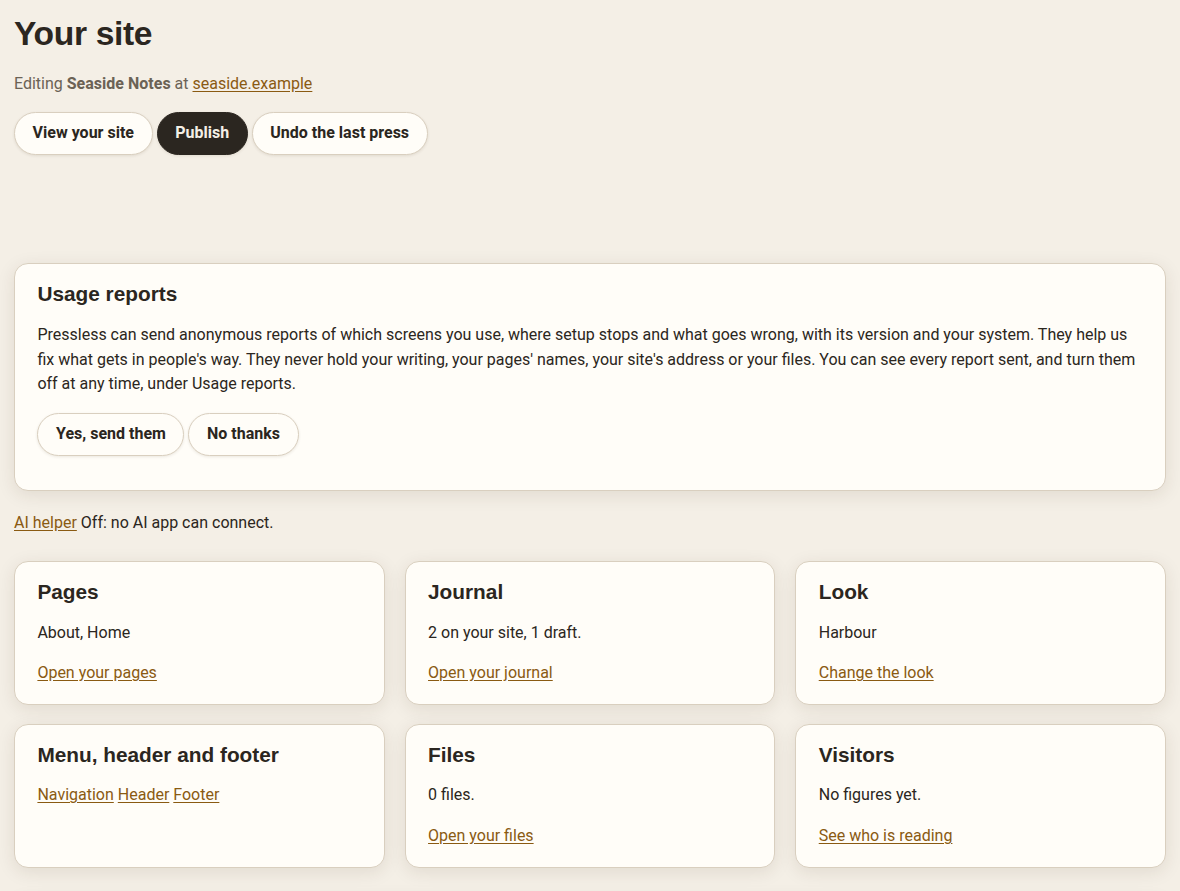
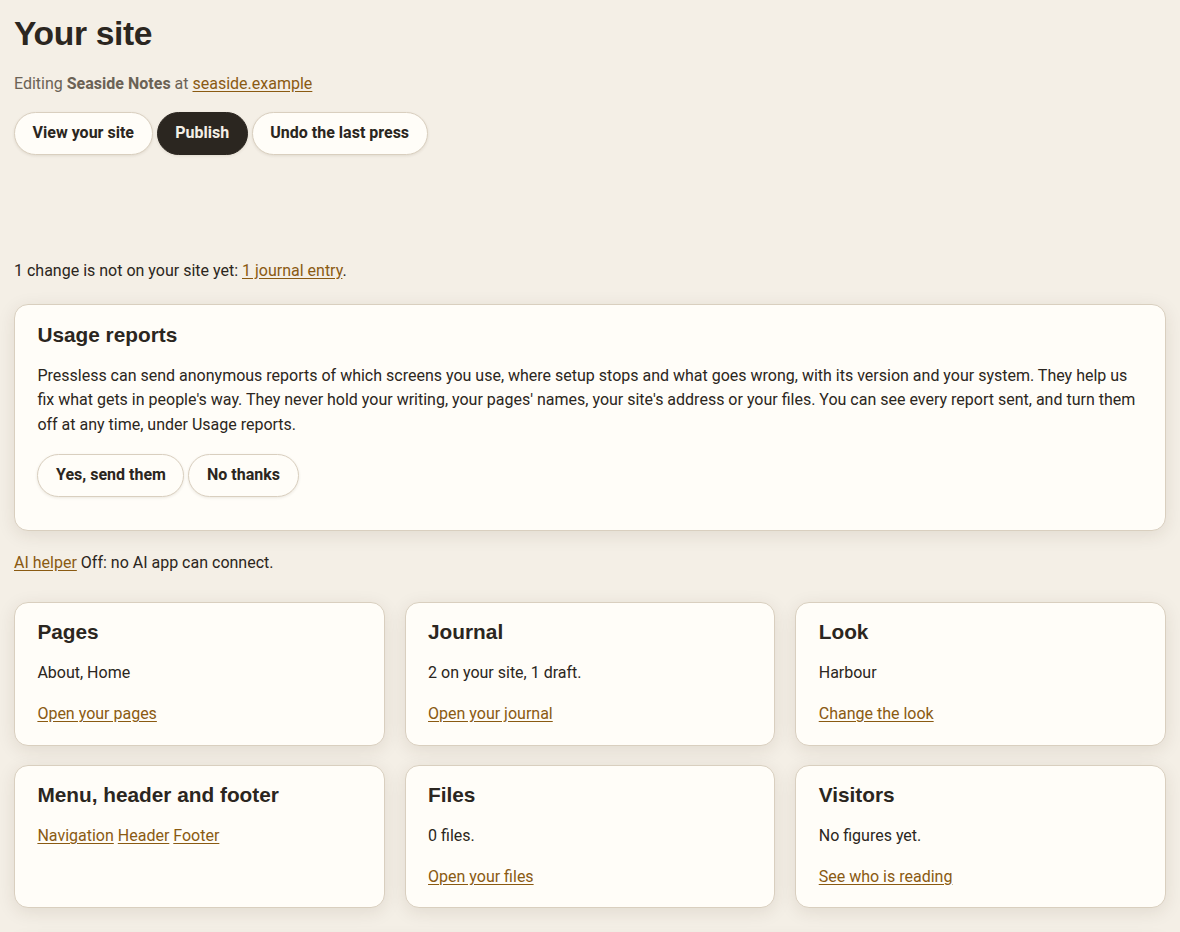
PRESS-0364: Your site counts the changes not on the site yet
A line under the Publish row says how many pages, parts of every page
and journal entries have changes not on the site, each kind linking to
Pages or Journal. It is counted from this computer alone, so the screen
never waits on the network, and it stands apart from Publish, which
sends none of those changes. With the journal off, entries are not
counted, since none can reach the site.

The manual said Publish on Your site sends everything waiting. It
does not, so the Publishing section now says what it does. The Your
site picture is retaken, and PRESS-0353's decision 5 says what is built.

write-code: Phase 0 contract PRESS-0353 (decision 5, section 4.3);
rows fired: signature (_drafts_and_notes, one caller), doc-claim
(spec, manual), names-string (word keys; test_words caught a built
key). Red first for the count and the doubled notice; a mutation
dropping the entries' changes turned the count test red. Gate:
scripts/local-ci.sh green, Linux 2022 passed and Windows box 1902
passed. Pair list absent.

Changed region(s): [[0.0, 0.5455, 1.0, 0.9697], [0.0, 0.2727, 0.9763, 0.5152], [0.0, 0.0303, 0.3661, 0.1818]]

diff --git a/src/pressless/overview.py b/src/pressless/overview.py
@@ -38,12 +38,14 @@ def _show(face: Face, folder: Path) -> str:
         tiles = "".join(tile(folder) for tile in (_pages, _journal, _look))
         tiles += _parts() + _files(folder) + _visitors(face, folder)
         below = checklist.render(folder)
+    with face.capture():  # its reads repeat the tiles', and Pages shows the rest
+        waiting = _waiting(folder)
     # PRESS-0235 § 4.5: the press row is the undo line, and Publish shares it.
     said, running, ended = pressing.shown("")
     buttons = (f'{face.view_site()} <button type="button" data-editor="publish" '
                f'data-publish-site>{say("overview.publish")}</button> ')
     return (render_notices(notices) + f"<h1>{say('face.your_site')}</h1>" + site
-            + editor._undo_row(said, running=running, before=buttons)
+            + editor._undo_row(said, running=running, before=buttons) + waiting
             + "".join(face.pieces("site-notices"))
             # PRESS-0236: a press's failure opens over the screen.
             + message_box("failure", ended or "", forgets=True)
@@ -51,6 +53,39 @@ def _show(face: Face, folder: Path) -> str:
             + f'<div class="tiles">{tiles}{"".join(face.pieces("site-tiles"))}</div>'
             + below + "".join(face.pieces("site-below")) + "</div>"
             + f"<script>{editor._UNDO_SCRIPT}{_PUBLISH_SCRIPT}</script>")
+
+
+def _waiting(folder: Path) -> str:
+    """PRESS-0364: how many changes are not on the site yet, by kind, each
+    kind linking to the screen that publishes it. Counted from the Store
+    alone, so a change only GitHub holds is missed. Its own line, apart from
+    Publish, which sends none of them. Nothing waiting, or nothing readable,
+    draws nothing."""
+    try:
+        counts = [
+            (len(store.list_html(folder, store.PAGES_FOLDER, waiting=True)),
+             ("overview.waiting.pages.one", "overview.waiting.pages.many"), editor.PAGES_ADDRESS),
+            (len(store.list_html(folder, store.FURNITURE_FOLDER, waiting=True)),
+             ("overview.waiting.parts.one", "overview.waiting.parts.many"), editor.PAGES_ADDRESS),
+        ]
+        if store.journal_on(folder):  # off, no entry can reach the site
+            entries, _ = editor.read_entries(folder)
+            counts.append((
+                len(entries.drafts) + len(entries.unreadable[True]) + len(entries.changed),
+                ("overview.waiting.entries.one", "overview.waiting.entries.many"),
+                editor.JOURNAL_ADDRESS))
+    except store.StoreError:
+        return ""
+    total = sum(count for count, _, _ in counts)
+    if not total:
+        return ""
+    kinds = ", ".join(
+        f'<a href="{html.escape(address, quote=True)}">'
+        f'{say(keys[0] if count == 1 else keys[1], count=count)}</a>'
+        for count, keys, address in counts if count)
+    said = say("overview.waiting.one" if total == 1 else "overview.waiting.many",
+               count=total, kinds=kinds)
+    return f'<p class="waiting">{said}</p>'
 
 
 def _tile(heading: str, figures: str, links: str) -> str:

diff --git a/src/pressless/editor.py b/src/pressless/editor.py
@@ -391,12 +391,14 @@ JOURNAL_ADDRESS = "/journal"
 @dataclasses.dataclass(frozen=True)
 class Entries:
     """The entries the Journal screen and Your site's tile read: the drafts
-    to list with their notes, the published entries, and the slugs that did
-    not read, by draft or not."""
+    to list with their notes, the published entries, the slugs that did
+    not read, by draft or not, and the published entries with changes not on
+    the site yet."""
     drafts: list[store.Entry]
     published: list[store.Entry]
     unreadable: dict[bool, list[str]]
     notes: dict[str, str]
+    changed: set[str]
 
 
 def read_entries(folder: Path) -> tuple[Entries, Exception | None]:
@@ -415,8 +417,8 @@ def read_entries(folder: Path) -> tuple[Entries, Exception | None]:
     # list_slugs, so an unreadable published entry still has its working copy
     # (PRESS-0162).
     published = {entry.slug for entry in readable[False]} | set(unreadable[False])
-    drafts, notes = _drafts_and_notes(readable[True], published)
-    return Entries(drafts, readable[False], unreadable, notes), first_failure
+    drafts, notes, changed = _drafts_and_notes(readable[True], published)
+    return Entries(drafts, readable[False], unreadable, notes, changed), first_failure
 
 
 def _pages_screen(face: Face, folder: Path, lock: threading.Lock, request: Request) -> str:
@@ -468,10 +470,10 @@ def _card(heading: str, inside: str) -> str:
 
 
 def _drafts_and_notes(read_drafts: list[store.Entry], published: set[str],
-                      ) -> tuple[list[store.Entry], dict[str, str]]:
-    """The drafts to list -- every draft but a working copy -- and the note
+                      ) -> tuple[list[store.Entry], dict[str, str], set[str]]:
+    """The drafts to list -- every draft but a working copy -- the note
     beside an entry, by slug: a published entry's waiting changes, and undo's
-    marks."""
+    marks -- and the published entries with waiting changes."""
     changed = {replaces_field(entry) for entry in read_drafts} & published
     drafts = [entry for entry in read_drafts if replaces_field(entry) not in published]
     # PRESS-0015 § 4.6: the draft undo took off the site, and a draft whose
@@ -481,7 +483,7 @@ def _drafts_and_notes(read_drafts: list[store.Entry], published: set[str],
     notes.update({entry.slug: say("editor.list.later_changes") for entry in drafts
                   if replaces_field(entry) in undone})
     notes.update({slug: say("editor.list.changed") for slug in changed})
-    return drafts, notes
+    return drafts, notes, changed
 
 
 def _rows(entries: list[store.Entry], broken: list[str], notes: dict[str, str]) -> str:

diff --git a/tests/test_screens.py b/tests/test_screens.py
@@ -128,3 +128,53 @@ def test_a_journal_that_is_off(tmp_path: Path) -> None:
     assert "not on your site while the journal is off" in journal
     tile = home.split("<h2>Journal</h2>", 1)[1].split("</section>", 1)[0]
     assert "Off." in tile
+
+
+def _waiting_line(page: str) -> str:
+    """The line on Your site counting changes not on the site yet, or ''."""
+    if 'class="waiting"' not in page:
+        return ""
+    return page.split('<p class="waiting">', 1)[1].split("</p>", 1)[0]
+
+
+def test_your_site_counts_the_changes_not_on_it(tmp_path: Path) -> None:
+    """PRESS-0364. A waiting page, a waiting part, a draft and a published
+    entry's changes each count once, and each kind opens its screen. Breaks
+    when a kind is missed, counted twice, or links nowhere."""
+    folder = _site(tmp_path)
+    store.write_html(folder, store.PAGES_FOLDER, "index", "<p>New home.</p>", waiting=True)
+    store.write_html(folder, store.FURNITURE_FOLDER, "header", "<p>Top.</p>", waiting=True)
+    store.write(folder, dataclasses.replace(
+        tp._entry("harbour-changes"), extra=((editor.REPLACES, "harbour"),)), draft=True)
+    with _served(folder) as browser:
+        line = _waiting_line(browser.get("/"))
+    assert line == (
+        "4 changes are not on your site yet: "
+        f'<a href="{editor.PAGES_ADDRESS}">1 page</a>, '
+        f'<a href="{editor.PAGES_ADDRESS}">1 part of every page</a>, '
+        f'<a href="{editor.JOURNAL_ADDRESS}">2 journal entries</a>.')
+
+
+def test_your_site_says_nothing_when_nothing_waits(tmp_path: Path) -> None:
+    """PRESS-0364. With no draft and no waiting copy there is no line, and
+    with the journal off its drafts cannot reach the site, so they are not
+    counted. Breaks when an empty or impossible count shows."""
+    folder = _site(tmp_path)
+    store.path_for(folder, "seaside", draft=True).unlink()
+    with _served(folder) as browser:
+        assert _waiting_line(browser.get("/")) == ""
+    (tmp_path / "off").mkdir()
+    off = _site(tmp_path / "off", journal=False)
+    with _served(off) as browser:
+        assert _waiting_line(browser.get("/")) == ""
+
+
+def test_a_stray_draft_file_is_reported_once(tmp_path: Path) -> None:
+    """PRESS-0364. The count reads the drafts the Journal tile reads, so
+    its notices repeat the tile's. Breaks when the count reports them again."""
+    folder = _site(tmp_path)
+    stray = store.path_for(folder, "seaside", draft=True).with_name(".txt")
+    stray.write_text("not an entry\n", encoding="utf-8")
+    with _served(folder) as browser:
+        page = browser.get("/")
+    assert page.count("drafts/.txt was passed over") == 1

diff --git a/src/pressless/words.py b/src/pressless/words.py
@@ -515,6 +515,14 @@ _WORDS: dict[str, str] = {
     "overview.visitors.not_set_up": "Not set up yet.",
     "overview.visitors.none_yet": "No figures yet.",
     "overview.visitors.read": "{people} read your site in {window}.",
+    "overview.waiting.one": "1 change is not on your site yet: {kinds}.",
+    "overview.waiting.many": "{count} changes are not on your site yet: {kinds}.",
+    "overview.waiting.pages.one": "1 page",
+    "overview.waiting.pages.many": "{count} pages",
+    "overview.waiting.parts.one": "1 part of every page",
+    "overview.waiting.parts.many": "{count} parts of every page",
+    "overview.waiting.entries.one": "1 journal entry",
+    "overview.waiting.entries.many": "{count} journal entries",
     "editor.site_line.unnamed": "Your site",
     "editor.site_line": "Editing <b>{name}</b> at {address}",
     "editor.list.pages_unreadable": "Pressless cannot open your pages folder.",

diff --git a/docs/specs/PRESS-0353-screens-redesign.md b/docs/specs/PRESS-0353-screens-redesign.md
@@ -45,10 +45,11 @@ session's recommendation, from drawn alternatives.
 3. **The journal has its own screen.** Off, it says what a journal is and
    offers to turn it on.
 4. **Settings opens on a short list of sections**, each its own screen.
-5. **No count of unpublished changes on Your site.** *(decided here)* The
-   drawing the user chose showed one. Knowing it needs GitHub's listing,
-   and the first screen must not wait on the network (ADR-0005). Publish
-   opens PRESS-0345's box, which lists the changes.
+5. **Your site counts the changes not on it from this computer alone.**
+   A change only GitHub holds is missed: finding it needs the network,
+   and the first screen must not wait on it (ADR-0005). The count is a
+   line of its own, apart from Publish, which sends none of those
+   changes (PRESS-0364).
 6. **Screen addresses are free to change.** *(decided here)* Nothing binds
    them: `docs/standards/versioning-overrides.md` freezes no screen
    address, and the AI door calls functions, not screens.
@@ -99,7 +100,8 @@ In this order, and the order does not change with the site's state:
 
 1. **The site's line**: its name and address (`editor._site_line` moves
    here), View your site, Publish, and Undo the last press
-   (`editor._undo_row`).
+   (`editor._undo_row`), then the count of changes not on the site
+   yet, by kind, each linking to Pages or Journal (decision 5).
 2. **Notices**: the place `site-notices` (§ 4.6), then the press's
    failure box (PRESS-0235 INV-8 holds as written).
 3. **Tiles**, each a heading, one line of figures, and its links:
@@ -312,7 +314,6 @@ its screen. `scripts/by-hand-browser-checks.py` carries the rows.
 ## 9. Out of scope
 
 - The Look screen's own changes — tracked by PRESS-0352 and PRESS-0359.
-- A count of unpublished changes — decision 5; tracked by PRESS-0364.
 - First-run setup's steps — decision 7.
 - Choosing the manual's language — tracked by PRESS-0241.
 
